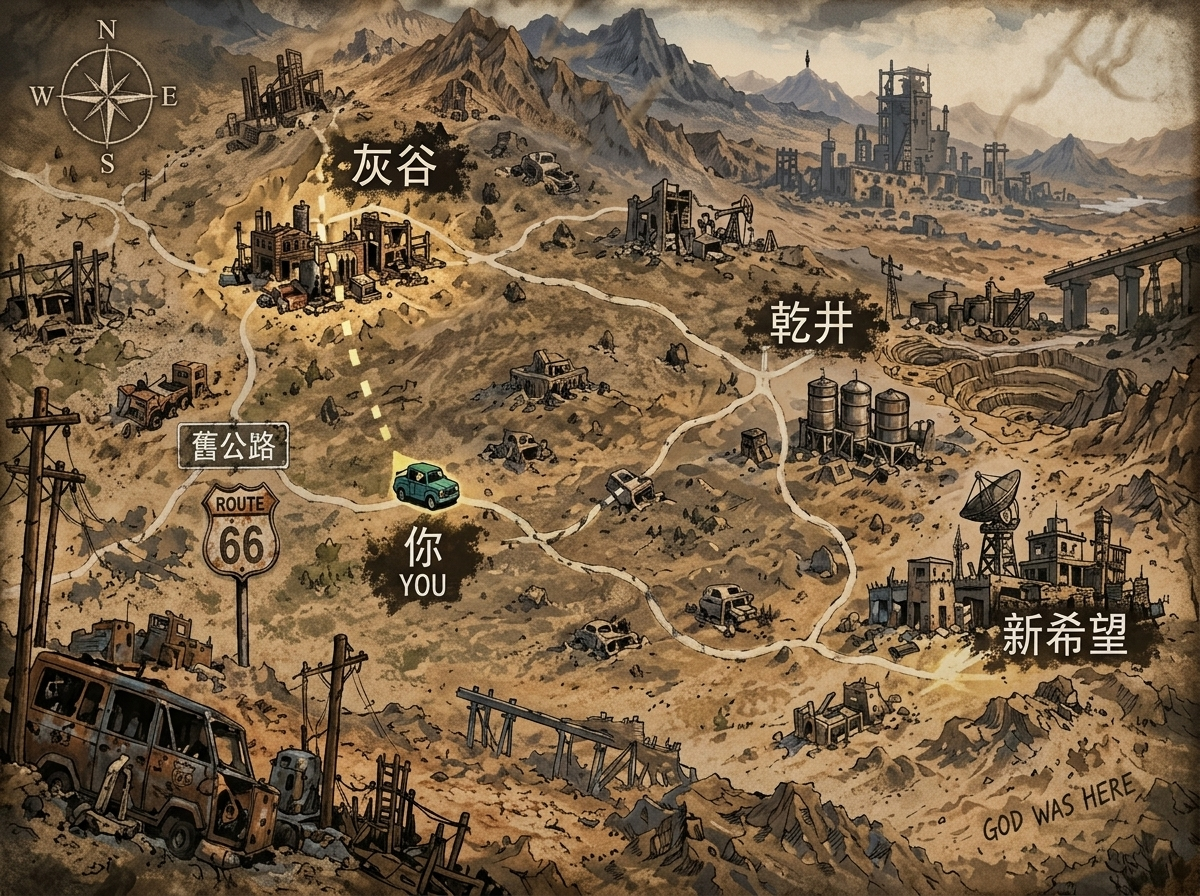
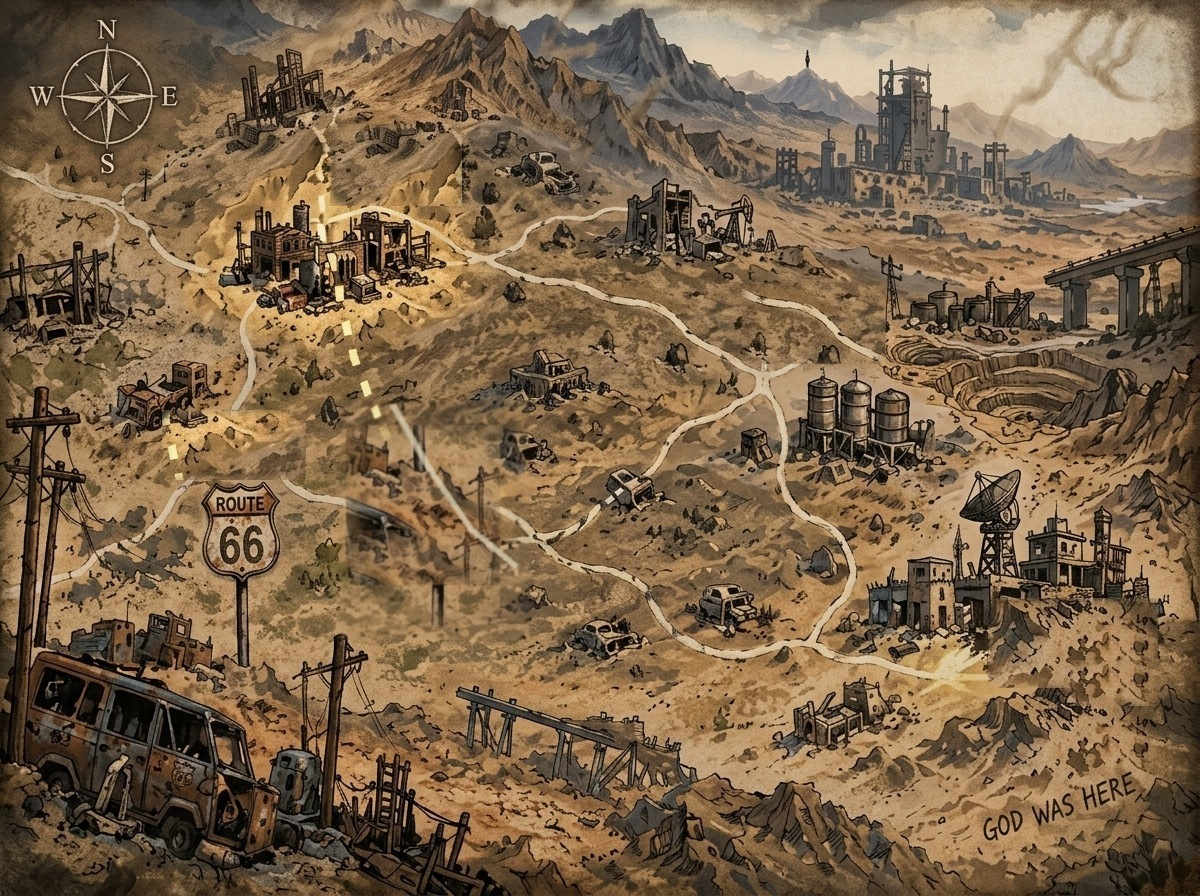
feat(s5-b3): travel runs the journey itself, and strip baked labels from map art
Play-testing showed three open loops. This closes the travel one and removes a
map that was lying about where the player is.

Travel:
- Choosing a destination IS the decision. Pressing Travel now advances the days
  on its own until arrival, instead of making the player press "wait one day"
  once per leg, which turned a journey into paperwork.
- Split into begin_player_travel (start, no time passes) and
  advance_player_travel (run the clock until something stops us), with an
  is_player_travel_interrupted hook that honestly returns false today. S5-B4
  encounters will halt the loop mid-route without restructuring this.
- This supersedes the S5-A.2 "Travel must not auto-tick" principle. Gate UI3
  was rewritten to assert the new behaviour rather than deleted, so the change
  of intent stays visible; the transit gates now drive stage one directly,
  since they verify per-day mechanics.

Map art:
- The player car and 你/YOU label were painted into the background JPEG at a
  fixed spot, so they could never move and always contradicted the real marker.
- Also removed the baked place names, which duplicated the runtime labels.
- Rule going forward: background art carries terrain, ruins, roads and
  buildings only; anything describing world state is drawn at runtime. Kept the
  Route 66 shield and the graffiti, which are objects standing in the world
  rather than labels about it.

Also fixes test_s5_b3_intervention, which the previous UX commit broke by
[…]

diff --git a/PLAN.md b/PLAN.md
@@ -22,7 +22,11 @@
 - [x] S4-D : Traits — CLOSED (Fast Lane)
 - [x] S4-E : Aptitude Schema (No XP) — CLOSED (Fast Lane)
 - [x] S4-F1 : Autonomous Decision Authority (+ G2-lite) — CLOSED
-- [ ] **S4-F2 : Autonomous Migration (decision to physical arrival) — CURRENT**
+- [x] S5-B3 : Travel Auto-Advance (journey runs itself) — CLOSED
+- [ ] **S5-B4 : Travel Encounters (5-8 deterministic roadside events + Scavenge) — CURRENT**
+- [ ] S5-B5 : Player Survival (water/food pressure, exposure, death)
+- [ ] ★ FP1 : FIRST PLAYABLE (full loop closes)
+- [ ] S4-F2 : Autonomous Migration (decision to physical arrival)
 - [ ] S4-F3 : Multi-NPC Determinism at scale
 - [ ] S4-G : NPC Relationships (split out of S4-C)
 
@@ -41,6 +45,9 @@
 - 2026-09-20: **S4-A / S4-B / S4-C CLOSED ✅** (identity materialization, lifecycle atomicity, immutable background profile with zero action authority).
 - 2026-09-20: **S4-C.1 Event Ledger Persistence CLOSED ✅** — committed events are the sole authority for historical world facts; `event_count` demoted to derived metadata.
 - 2026-09-20: **S4-C.2 Snapshot Numeric Canonicality CLOSED ✅** — save-time `snapped()` removed; authoritative floats canonicalized at the end-of-day commit boundary via the persistence codec. Save/Load is now a transparent boundary (N4: interrupted and uninterrupted Day 100 worlds are identical in state, ledger and projection). Finding `NON_LEDGER_STATE_NOT_ROUNDTRIPPED` → **RESOLVED**. Canonical artifacts intentionally regenerated.
+- 2026-09-20: **Play-test findings (Owner)** — the build is an operable world shell, not yet a First Playable: travel, events and survival are three open loops. Baked-in map art was lying about player position; travel made the player press "wait one day" per leg; with no events, trade is just spending down caps; water/food cannot kill, so they are decorative resources.
+- 2026-09-20: **Map art rule (Owner)** — background artwork may contain terrain, ruins, roads and buildings ONLY. Place names, player markers, route day counts, node circles and UI text must be drawn by Godot at runtime, because baked text cannot follow a world that changes. AI-generated art answers "what does the world look like", never "where are you now".
+- 2026-09-20: **S5-B3 Travel Auto-Advance CLOSED** — choosing a destination is the decision; the days of walking are not a second decision to keep confirming. Travel split into begin_player_travel + advance_player_travel so encounters can interrupt a journey later. This supersedes the S5-A.2 "no auto-tick" principle, and gate UI3 was rewritten rather than deleted so the change of intent stays visible.
 - 2026-09-20: **S4-F1 Autonomous Decision Authority CLOSED ✅ (G2-lite)** — closed action space of STAY/MIGRATE only; the decision engine never holds a WorldState, so zero mutation authority is structural. Batch semantics with an immutable start-of-phase snapshot and lexicographic npc_id order. Rejected intents stay in the decision audit trail and never reach the event ledger. Traits/Aptitudes/Backgrounds deliberately do NOT influence decisions in F1.
 - 2026-09-20: **Finding `STRINGNAME_SORT_IS_NOT_LEXICOGRAPHIC` CONFIRMED** — Godot sorts StringName by internal pointer. Avoided in the decision phase; existing engine iteration sites still sort StringName keys and are only coincidentally ordered. Awaiting Owner disposition.
 - 2026-09-20: **S4-E Aptitude CLOSED ✅ (Fast Lane)** — closed-domain tag set on `NpcProfile`; deliberately no numeric ratings, since no Skill Growth system exists yet to give a rating meaning. S5-D will decide how TECHNICAL relates to Mechanics, not the reverse.
